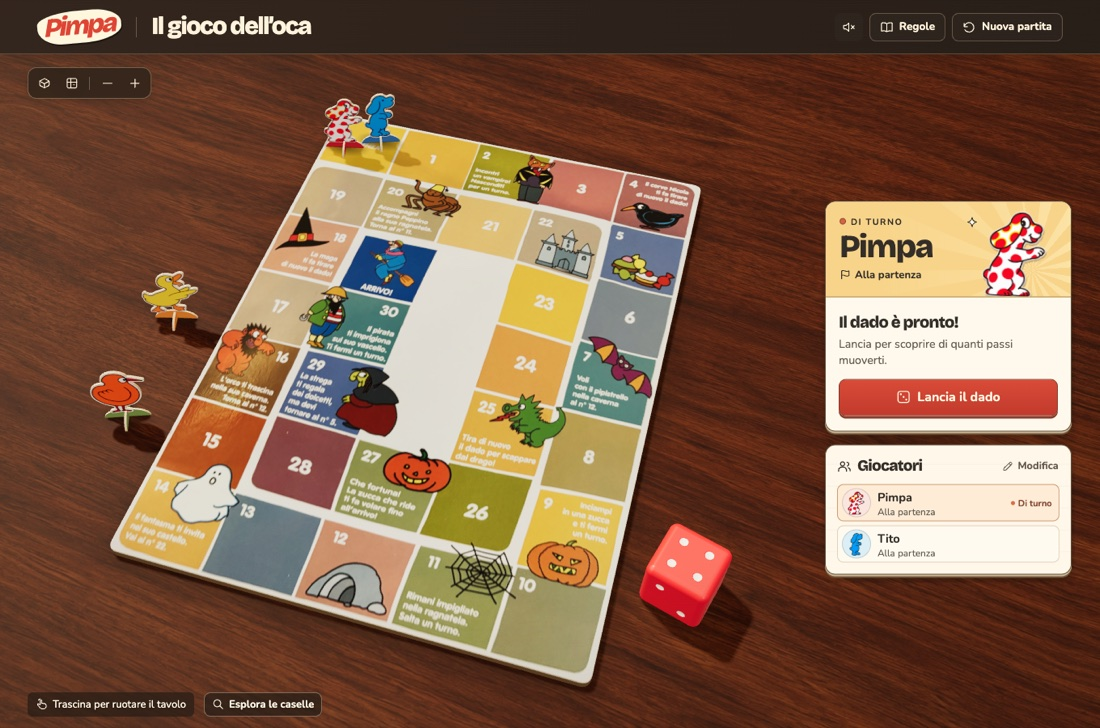
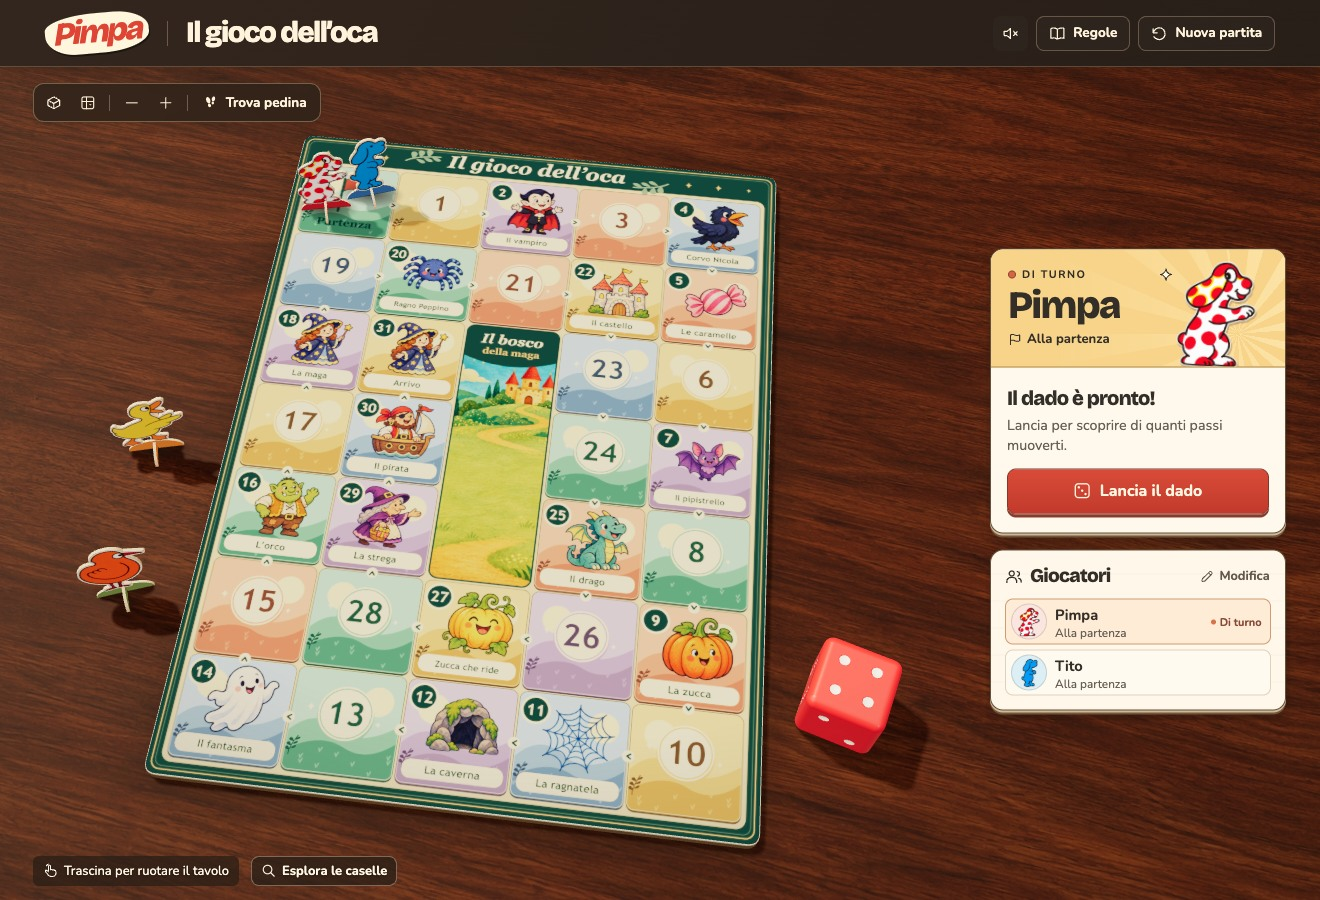
Centra la pedina e permetti di esplorare il percorso casella per casella

diff --git a/pimpa/dist/table-compatible.js b/pimpa/dist/table-compatible.js
@@ -10,30 +10,33 @@
     };
     const surface = node("div", "compat-surface"),
       board = node("div", "compat-board");
+    const buttons = new Map();
     const coordinates = new Map(),
       pieces = new Map();
     const ids = Object.keys(PimpaGame.characters);
     let roster = [],
       active,
-      angle = 9,
-      tilt = 33,
-      zoom = 1;
+      angle = -4,
+      tilt = 25,
+      zoom = 1,
+      focused = null;
     host.replaceChildren(surface);
     surface.append(board);
     PimpaBoard.tiles.forEach((tile, n) => {
-        const btn = node("button", "compat-cell");
-        const [u, v] = PimpaBoard.center(n);
-        coordinates.set(n, [u * 500, v * 700]);
-        Object.assign(btn.style, {
-          left: tile.x / 2 + "px", top: tile.y / 2 + "px",
-          width: PimpaBoard.cellWidth / 2 + "px", height: PimpaBoard.cellHeight / 2 + "px",
-        });
-        btn.setAttribute(
-          "aria-label",
-          n === 0 ? "Partenza" : n === 31 ? "Arrivo" : "Casella " + n,
-        );
-        btn.onclick = () => actions.onCell(n);
-        board.append(btn);
+      const btn = node("button", "compat-cell");
+      const [u, v] = PimpaBoard.center(n);
+      coordinates.set(n, [u * 500, v * 700]);
+      Object.assign(btn.style, {
+        left: tile.x / 2 + "px", top: tile.y / 2 + "px",
+        width: PimpaBoard.cellWidth / 2 + "px", height: PimpaBoard.cellHeight / 2 + "px",
+      });
+      btn.setAttribute(
+        "aria-label",
+        n === 0 ? "Partenza" : n === 31 ? "Arrivo" : "Casella " + n,
+      );
+      btn.onclick = () => actions.onCell(n);
+      board.append(btn);
+      buttons.set(n, btn);
     });
     for (const id of ids) {
       const spot = node("button", "compat-pawn"),
@@ -107,6 +110,24 @@
           "rotateY(180deg)",
         ][value - 1];
     }
+    function screenPoint(n) {
+      const rect = buttons.get(n).getBoundingClientRect();
+      return {x: rect.left + rect.width / 2, y: rect.top + rect.height / 2};
+    }
+    function highlight(n) {
+      buttons.forEach((button, i) => button.classList.toggle("lit", n === i));
+    }
+    function revealPath(numbers) {
+      const rect = frame.getBoundingClientRect();
+      if (numbers.some(n => {
+        const {x, y} = screenPoint(n);
+        return x < rect.left + 20 || y < rect.top + 24 || x > rect.right - 20 || y > rect.bottom - 20;
+      })) {
+        focused = null;
+        zoom = 1;
+        view();
+      }
+    }
     function view() {
       const rect = host.getBoundingClientRect(),
         f = frame.getBoundingClientRect();
@@ -119,17 +140,33 @@
         zoom;
       surface.style.left = f.left - rect.left + f.width * 0.49 + "px";
       surface.style.top = f.top - rect.top + f.height * 0.49 + "px";
+      board.style.setProperty("--stand-angle", -Math.max(28, tilt + 23) + "deg");
       board.style.transform = `scale(${scale}) rotateX(${tilt}deg) rotateZ(${angle}deg)`;
+      if (focused !== null) {
+        const pt = screenPoint(focused);
+        surface.style.left = parseFloat(surface.style.left) + f.left + f.width / 2 - pt.x + "px";
+        surface.style.top = parseFloat(surface.style.top) + f.top + f.height / 2 - pt.y + "px";
+      }
     }
-    function setView(mode) {
+    function setView(mode, n) {
+      if (mode === "cell") {
+        focused = n;
+        zoom = 1.85;
+        highlight(n);
+      }
+      if (mode === "reset" || mode === "top") {
+        focused = null;
+        highlight(null);
+      }
       if (mode === "reset") {
-        angle = 9;
-        tilt = 33;
+        angle = -4;
+        tilt = 25;
         zoom = 1;
       }
       if (mode === "top") {
-        tilt = tilt === 5 ? 33 : 5;
-        angle = tilt === 5 ? 0 : 9;
+        tilt = tilt === 5 ? 25 : 5;
+        angle = tilt === 5 ? 0 : -4;
+        zoom = 1;
       }
       if (mode === "in" || mode === "out")
         zoom = Math.max(
@@ -185,7 +222,7 @@
     new ResizeObserver(view).observe(frame);
     view();
     return {
-      setView,
+      setView, highlight, screenPoint, revealPath,
       setDie,
       setPieces(people, id) {
         roster = people;

diff --git a/pimpa/dist/table3d.js b/pimpa/dist/table3d.js
@@ -3,8 +3,8 @@
   const W = 5.8,
     D = (W * 7) / 5,
     boardY = 0.135;
-  const initialBearing = 0.29,
-    initialElevation = 0.9;
+  const initialBearing = 0.12,
+    initialElevation = 1.03;
   const ids = Object.keys(PimpaGame.characters);
   const reducedMotion = () =>
     matchMedia("(prefers-reduced-motion: reduce)").matches;
@@ -228,6 +228,18 @@
     paper.position.y = boardY;
     paper.receiveShadow = true;
     scene.add(paper);
+    // The printed square stays visible inside a narrow gold outline.
+    const tileWidth = W * PimpaBoard.cellWidth / PimpaBoard.width;
+    const tileDepth = D * PimpaBoard.cellHeight / PimpaBoard.height;
+    const border = roundedShape(tileWidth * .96, tileDepth * .96, .07);
+    border.holes.push(roundedShape(tileWidth * .88, tileDepth * .88, .05));
+    const outline = new T.Mesh(new T.ShapeGeometry(border), new T.MeshBasicMaterial({
+      color: 0xffce45, toneMapped: false,
+    }));
+    outline.rotation.x = -Math.PI / 2;
+    outline.visible = false;
+    scene.add(outline);
+
     const die = PimpaDie.create(T);
     scene.add(die.object);
     const dieHome = new T.Vector3(W / 2 + 0.77, 0, D * 0.32);
@@ -258,6 +270,31 @@
     function cellPoint(n) {
       const [u, v] = PimpaBoard.center(n);
       return new T.Vector3((u - 0.5) * W, boardY + 0.004, (v - 0.5) * D);
+    }
+    function highlight(n) {
+      outline.visible = n != null;
+      if (outline.visible) {
+        outline.position.copy(cellPoint(n));
+        outline.position.y += .012;
+      }
+      dirty = true;
+    }
+    function screenPoint(n) {
+      const point = cellPoint(n).project(camera);
+      const rect = canvas.getBoundingClientRect();
+      return { x: rect.left + (1 + point.x) * rect.width / 2,
+        y: rect.top + (1 - point.y) * rect.height / 2 };
+    }
+    function revealPath(numbers) {
+      const fr = frame.getBoundingClientRect();
+      if (numbers.some(n => {
+        const {x, y} = screenPoint(n);
+        return x < fr.left + 20 || x > fr.right - 20 || y < fr.top + 24 || y > fr.bottom - 20;
+      })) {
+        focused = null;
+        zoom = 1;
+        view();
+      }
     }
     function occupiedPoint(id, n) {
       const point = cellPoint(n);
@@ -330,7 +367,8 @@
     let bearing = initialBearing,
       elevation = initialElevation,
       zoom = 1,
-      overhead = false;
+      overhead = false,
+      focused = null;
     const focus = new T.Vector3(0, 0.16, 0);
     const bounds = [];
     for (const x of [-W / 2, W / 2])
@@ -345,6 +383,7 @@
         fr = frame.getBoundingClientRect();
       const w = Math.max(1, rect.width),
         h = Math.max(1, rect.height);
+      focus.set(0, 0.16, 0);
       renderer.setSize(w, h, false);
       camera.clearViewOffset();
       camera.aspect = w / h;
@@ -385,6 +424,10 @@
       // Use the same framing centre while zooming so a close-up really does crop into the table.
       const fitted = projected(hi),
         center = fitted.getCenter(new T.Vector2());
+      if (focused !== null) {
+        focus.copy(cellPoint(focused));
+        center.set(w / 2, h / 2);
+      }
       place(hi / zoom);
       const desiredX = fr.left - rect.left + fr.width / 2,
         desiredY = fr.top - rect.top + fr.height / 2;
@@ -399,7 +442,16 @@
       camera.updateProjectionMatrix();
       dirty = true;
     }
-    function setView(mode) {
+    function setView(mode, n) {
+      if (mode === "cell") {
+        focused = n;
+        zoom = 1.85;
+        highlight(n);
+      }
+      if (mode === "reset" || mode === "top") {
+        focused = null;
+        highlight(null);
+      }
       if (mode === "reset") {
         bearing = initialBearing;
         elevation = initialElevation;
@@ -574,7 +626,7 @@
     view();
     requestAnimationFrame(tick);
     return {
-      setPieces,
+      setPieces, highlight, screenPoint, revealPath,
       hop,
       setView,
       setDie(value) {

diff --git a/pimpa/dist/app.js b/pimpa/dist/app.js
@@ -200,6 +200,7 @@
       "play-button",
       "new-game",
       "edit-players",
+      "find-pawn",
       "inspect-cells",
       "rules-button",
     ].forEach((id) => {
@@ -233,6 +234,7 @@
     return button;
   }
   function showCell(n) {
+    table?.highlight(n);
     const cell = cells[n];
     modalHeading(n === 0 || n === finish ? cell.name : `Casella ${n}`);
     const info = el("div", "tile-detail");
@@ -260,7 +262,24 @@
       ),
     );
     body.append(info);
-    modalButton("Torna al tabellone", () => modal.close());
+    const browse = el("div", "browse-cells");
+    const previous = el("button", "", "← Precedente");
+    const next = el("button", "", "Successiva →");
+    previous.disabled = n === 0;
+    next.disabled = n === finish;
+    function browseTo(number, index) {
+      showCell(number);
+      const arrows = body.querySelectorAll(".browse-cells button");
+      (arrows[index].disabled ? arrows[1 - index] : arrows[index]).focus();
+    }
+    previous.onclick = () => browseTo(n - 1, 0);
+    next.onclick = () => browseTo(n + 1, 1);
+    browse.append(previous, next);
+    body.append(browse);
+    modalButton("Guarda sul tavolo", () => {
+      table.setView("cell", n);
+      modal.close();
+    }, "search");
     openModal();
   }
   function showRules() {
@@ -517,6 +536,7 @@
       modal.close();
   });
   const setView = (mode) => table?.setView(mode);
+  $("find-pawn").onclick = () => table?.setView("cell", game.players[game.active].position);
   $("view-reset").onclick = () => setView("reset");
   $("view-top").onclick = () => setView("top");
   $("zoom-in").onclick = () => setView("in");

diff --git a/pimpa/dist/style.css b/pimpa/dist/style.css
@@ -1131,7 +1131,7 @@ body {
   width: 67px;
   height: 88px;
   transform-origin: 50% 100%;
-  transform: translate(-50%, -100%) rotateX(-90deg);
+  transform: translate(-50%, -100%) rotateX(var(--stand-angle, -48deg));
   transform-style: preserve-3d;
   transition:
     top 0.2s,
@@ -1192,3 +1192,24 @@ body {
   background: #fff3d4;
   border-radius: 50%;
 }
+
+#find-pawn {
+  width: auto;
+  padding: 0 10px;
+}
+.compat-cell.lit {
+  border: 4px solid #ffce45;
+  border-radius: 9px;
+}
+.browse-cells {
+  display: flex;
+  justify-content: space-between;
+  margin-top: 14px;
+}
+.browse-cells button {
+  border: 1px solid #c3b69c;
+  background: #fff8e9;
+  padding: 7px 12px;
+  border-radius: 8px;
+}
+.browse-cells button:disabled { opacity: .4; }

diff --git a/pimpa/dist/index.html b/pimpa/dist/index.html
@@ -74,6 +74,10 @@
         <button id="zoom-in" title="Avvicina" aria-label="Avvicina">
           <i data-icon="plus"></i>
         </button>
+        <span></span>
+        <button id="find-pawn" title="Trova la mia pedina" aria-label="Trova la mia pedina">
+          <i data-icon="footprint"></i><span>Trova pedina</span>
+        </button>
       </div>
       <div class="rail">
         <section class="turn-panel panel" aria-labelledby="current-name">
